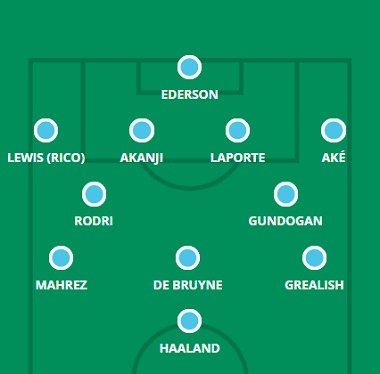
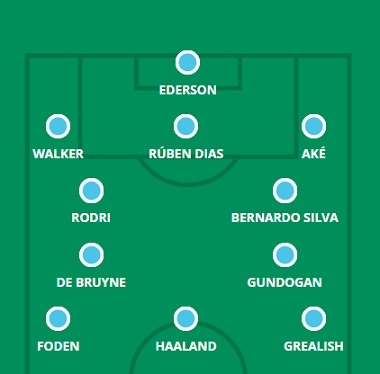
17-20

diff --git a/city.html b/city.html
@@ -63,15 +63,15 @@
     <hgroup>
         <h1> Provável Escalação</h1>
         <h2 class="direita"> por FabioVascão </h2>
-        <h3 class="direita"> Atualizado em 03/Fevereiro/2023 </h3>
+        <h3 class="direita"> Atualizado em 03/Março/2023 </h3>
     </hgroup>
 
     <div class="selecao"><p><b><img src="images/logos/manchester-city.png" width="100rem" height="100rem"/> Manchester City</b></p></div>
        
     <div class="escalacao">
         <div class="topo">
-            <h2 class="titulo">Ultimas Notícias</h2> <h4><p> Pep Guardiola confirmou na sexta-feira que John Stones ficará fora por 3-4 semanas devido à lesão no tendão que contraiu na sexta-feira passada, mas teve melhores notícias sobre Phil Foden (pé), que "treinou muito bem" e deve estar disponível no norte de Londres . A saída de João Cancelo e a lesão de Stones reduzem o número de candidatos a uma vaga na defesa, mas não deixam isso totalmente claro, com Ruben Dias voltando aos poucos à plena forma e logo ameaçando começar no meio-campo. Há também a possibilidade de Kyle Walker ser jogado como lateral-direito para controlar o ritmo de contra-ataque do Spurs, enquanto Rico Lewis foi citado por seu técnico na sexta-feira como sendo uma das opções na esquerda (seja 'invertendo' ou empurrando para cima o flanco) quando Nathan Ake não aparece. Os únicos dois jogadores neste XI previsto que não começaram no confronto reverso na Gameweek 20 foram Aymeric Laporte (que achamos que entra no lugar dos Stones lesionados aqui) e Kevin De Bruyne, com Guardiola optando por mais apoio para Erling Haaland contra um zagueiro na forma de Julian Alvarez - ou talvez tenha sido apenas porque o belga perdeu algum treinamento naquela semana. Se Alvarez for esquecido, talvez isso torne a inclusão de Ilkay Gundogan ainda mais importante, com o alemão indiscutivelmente o melhor meio-campista do City em invadir a área e oferecer um pouco da já mencionada ameaça de gol adicional ao lado de Haaland. Se dois ou três dias de treinamento são suficientes para Foden ser considerado um potencial titular é a grande questão e, de qualquer forma, Guardiola pode simplesmente optar pela dupla mais controlada de Riyad Mahrez e Jack Grealish para impedir que o jogo vire um basquete. partida. Como sempre, a formação que você vê aqui não é um reflexo verdadeiro de como o City se posiciona com a bola - tem sido mais um 3-2-5 com a posse de bola desde a Copa do Mundo e um 4-4-2/4-2- 3-1 fora da bola.</p></h4><br>
-            <h4><strong>Dúvidas:</strong> Stones e Foden.</h4>
+            <h2 class="titulo">Ultimas Notícias</h2> <h4><p> John Stones (coxa), Stefan Ortega (mão) e Aymeric Laporte (doença) voltaram a treinar esta semana, então o City pode ter um atestado de saúde para a visita do Newcastle. Pep Guardiola não deu total liberdade ao trio, apenas dizendo que eles estavam "muito melhores", e não seria uma surpresa ver Stones em particular voltando à ação após seis semanas com uma lesão muscular. Ruben Dias está rapidamente se tornando o esteio da defesa do City após seis partidas consecutivas na liga e na copa, enquanto o ritmo de Kyle Walker provavelmente será uma vantagem contra Allan Saint-Maximin - não que o internacional da Inglaterra tenha tido muito sucesso no confronto reverso. Falando nisso, o City jogou mais um flat back four naquele dia em Tyneside, mas deixou Rodri sobrecarregado na sala de máquinas, então Guardiola pode sentir novamente que inverter Bernardo Silva ou Rico Lewis de lateral-esquerdo não seria apenas o melhor remédio para isso, mas também deu a Walker e Dias alguma proteção adicional contra Rodri para anular Saint-Maximin no contra-ataque. Phil Foden está jogando de volta neste time do City com suas atuações recentes e, embora você nunca saiba o que esperar de Guardiola semana a semana, Erling Haaland provavelmente precisará de algum apoio do que o chefe do City chama seus "corredores" (Foden, Ilkay Gundogan) se o Newcastle replicar suas táticas sufocantes bem-sucedidas dos Emirados em janeiro. Jack Grealish, do outro flanco, está em boa forma em sua carreira no City, e talvez tenha sido revelador que ele teve uma pausa na eliminatória da FA Cup contra o Bristol City no meio da semana, enquanto Foden e Riyad Mahrez estavam em campo. Walker, Gundogan, Haaland e Rodri também descansaram em Ashton Gate, provavelmente com vista ao jogo de sábado na hora do almoço. **NOTA** A formação 3-2-2-3 é nova nestas páginas e pode ser necessário atualizar seu navegador/limpar o cache para vê-la exibida.</p></h4><br>
+            <h4><strong>Dúvidas:</strong> Stones, Laporte e Moreno.</h4>
         </div>
         <aside>
             <figure>

diff --git a/nforest.html b/nforest.html
@@ -63,15 +63,15 @@
     <hgroup>
         <h1> Provável Escalação</h1>
         <h2 class="direita"> por FabioVascão </h2>
-        <h3 class="direita"> Atualizado em 10/Fevereiro/2023 </h3>
+        <h3 class="direita"> Atualizado em 03/Março/2023 </h3>
     </hgroup>
 
     <div class="selecao"><p><b><img src="images/logos/nforest.png" width="100rem" height="100rem"/> N. Forest</b></p></div>
        
     <div class="escalacao">
         <div class="topo">
-            <h2 class="titulo">Ultimas Notícias</h2> <h4><p> Aprendemos até agora a não confiar muito no que Steve Cooper diz nas notícias da equipe, mas na quinta-feira, ele deu a entender que Dean Henderson (coxa), Moussa Niakhate (coxa), Cheikhou Kouyate (coxa), Taiwo Awoniyi (virilha) e Ryan Yates (doença) permaneceria afastado antes do jogo contra o Fulham. Giulian Biancone (ACL) e Omar Richards (perna) também são ausentes de longa data e ficaram de fora dos 25 convocados do Forest para o segundo semestre de 2022/23. O novato Jonjo Shelvey (panturrilha) esteve na grama esta semana e está “perto”, no entanto, então pudemos ver o ex-craque do Newcastle no elenco do Forest pela primeira vez. Cooper manteve as coisas relativamente resolvidas ultimamente após um início de temporada turbulento em termos de entradas e saídas: os recém-chegados Danilo, Chris Wood e Keylor Navas praticamente vieram direto para o lado, enquanto todos os outros no previsto XI bar Scott McKenna e Serge Aurier iniciaram todas as partidas da liga para as quais estiveram disponíveis desde o reinício do Boxing Day. Jack Colback e Sam Surridge foram desviados da hierarquia em meio ao influxo de recém-chegados, mas impressionaram fora do banco no último fim de semana e esperam obter raros começos à frente de duas contratações que não atingiram o solo correndo na forma de Danilo e Wood, com Gustavo Scarpa e Jesse Lingard também alternativos.</p></h4><br>
-            <h4><strong>Dúvidas:</strong> Biancone, Kouyaté, Shelvey, Yates, Henderson, Niakhaté, Awoniyi e Richards (Omar).</h4>
+            <h2 class="titulo">Ultimas Notícias</h2> <h4><p> Willy Boly (coxa), Scott McKenna (coxa), Dean Henderson (coxa), Cheikhou Kouyate (coxa), Taiwo Awoniyi (virilha), Giulian Biancone (ACL) e Omar Richards (perna) permanecem de fora, enquanto Moussa Niakhate (coxa) ) precisará de mais tempo de preparação física antes de ser considerado para um retorno à Premier League. Renan Lodi (virilha) também precisa ser avaliado depois de se afastar no fim de semana passado, enquanto Steve Cooper disse na sexta-feira que "não tinha certeza" se Serge Aurier (panturrilha) seria capaz de retornar contra o Everton. Ryan Yates (doença) deve estar de volta à disputa depois de um recente retorno aos treinos, pelo menos, embora tenhamos dito isso por algumas semanas. Neco Williams e Harry Toffolo são titulares padrão como zagueiros se Aurier e Lodi disputando de fora, enquanto há uma escassez semelhante de opções no meio-campo para garantir que Felipe e Joe Worrall continuem no centro da defesa. Há muito mais opções mais à frente, com Jonjo Shelvey (cuja retirada no fim da semana passada parece ser o catalisador para a derrota no West Ham) e o favorito de Cooper, Remo Freuler, os titulares mais prováveis na sala de máquinas. Jack Colback juntou-se a eles no meio-campo nas duas últimas partidas, mas Danilo, Orel Mangala, Yates (se estiver em forma) e até mesmo o mais ofensivo Gustavo Scarpa são outras opções, enquanto Jesse Lingard (o candidato mais provável para uma convocação), Emmanuel Dennis, Sam Surridge, Andre Ayew e Scarpa são alternativas para Chris Wood no ataque - mas a habilidade aérea do Kiwi pode ser útil para defender lances de bola parada contra os Toffees de Sean Dyche.</p></h4><br>
+            <h4><strong>Dúvidas:</strong> Biancone, Kouyaté, Boly, McKenna, Aurier, Lodi, Yates, Henderson, Niakhaté, Awoniyi e Richards (Omar).</h4>
         </div>
         <aside>
             <figure>

diff --git a/spurs.html b/spurs.html
@@ -63,15 +63,15 @@
     <hgroup>
         <h1> Provável Escalação</h1>
         <h2 class="direita"> por FabioVascão </h2>
-        <h3 class="direita"> Atualizado em 10/Fevereiro/2023 </h3>
+        <h3 class="direita"> Atualizado em 03/Março/2023 </h3>
     </hgroup>
 
     <div class="selecao"><p><b><img src="images/logos/tottenham.png" width="100rem" height="100rem"/> Tottenham</b></p></div>
        
     <div class="escalacao">
         <div class="topo">
-            <h2 class="titulo">Ultimas Notícias</h2> <h4><p> Hugo Lloris vai ficar cinco a sete semanas afastado dos relvados devido a uma lesão num joelho, enquanto Yves Bissouma foi submetido a uma cirurgia ao tornozelo na sexta-feira e enfrenta agora um período de inatividade. Os Spurs também perderam Cristian Romero por suspensão após seu cartão vermelho no fim de semana passado, mas além desse trio, os Lilywhites têm uma equipe totalmente apta para a viagem a Leicester. O time do Spurs permaneceu inalterado nas últimas três partidas do campeonato, com desempenhos melhorando contra Manchester City e Fulham, mas Antonio Conte será forçado a pelo menos duas alterações neste fim de semana com Lloris e Romero fora. Fraser Forster substituirá o primeiro, embora provavelmente seja uma luta direta entre Davinson Sanchez e Clement Lenglet (desculpas a Japhet Tanganga) pela posição vaga de Romero - se Lenglet conseguir o aceno, Eric Dier passará para o centro-direito. meio papel em uma ligeira remodelação. O próximo empate da Liga dos Campeões contra o AC Milan pode estar no fundo da mente de Conte em relação aos minutos administrados, mas com cinco dias para se recuperar entre essa partida e a rodada 24, provavelmente não haverá mudanças no atacado no King Power Stadium. Ryan Sessegnon, Pedro Porro, Richarlison, Arnaut Danjuma e Lucas Moura finalmente oferecem aos Spurs um pouco de força em profundidade, com as posições laterais provavelmente a principal causa de preocupação quando os Lilywhites enfrentam uma semana de três jogos.</p></h4><br>
-            <h4><strong>Dúvidas:</strong> Romero, Bissouma e Lloris.</h4>
+            <h2 class="titulo">Ultimas Notícias</h2> <h4><p> Ryan Sessegnon (coxa), Rodrigo Bentancur (joelho), Hugo Lloris (joelho) e Yves Bissouma (tornozelo) permanecem na lista de lesões de médio a longo prazo, mas Emerson Royal se livrou da pancada que o manteve fora do derrota na copa no meio da semana para o Sheffield United. Não houve muitos / nenhum da segunda linha que impressionou naquela derrota decepcionante em Bramall Lane, com Ivan Perisic, Pedro Porro, Davinson Sanchez e Lucas Moura falhando em reivindicar uma convocação na Premier League - e eles 'provavelmente teria que ter feito algo especial para impressionar a equipe de gestão geograficamente dispersa do Spurs, dadas as boas atuações de seus rivais posicionais contra o Chelsea no último domingo. Portanto, mais uma vez ficamos debatendo qual dos Richarlison ou Son Heung-min consegue o aceno no ataque, com nenhum dos dois fazendo o suficiente ultimamente e novamente falhando em brilhar quando começaram juntos na FA Cup. Richarlison conquistou vitórias sucessivas em casa no campeonato, mas é justo dizer que as vitórias ocorreram apesar da presença do brasileiro, e não devido a isso.</p></h4><br>
+            <h4><strong>Dúvidas:</strong> Bentancur, Sessegnon, Bissouma e Lloris.</h4>
         </div>
         <aside>
             <figure>

diff --git a/palace.html b/palace.html
@@ -63,15 +63,15 @@
     <hgroup>
         <h1> Provável Escalação</h1>
         <h2 class="direita"> por FabioVascão </h2>
-        <h3 class="direita"> Atualizado em 03/Fevereiro/2023 </h3>
+        <h3 class="direita"> Atualizado em 03/Março/2023 </h3>
     </hgroup>
 
     <div class="selecao"><p><b><img src="images/logos/crystal-palace.png" width="100rem" height="100rem"/> Crystal Palace</b></p></div>
        
     <div class="escalacao">
         <div class="topo">
-            <h2 class="titulo">Ultimas Notícias</h2> <h4><p> Patrick Vieira revelou na sexta-feira que Wilfried Zaha ficará de fora por "algumas semanas" devido à lesão no tendão que contraiu na Gameweek 21, enquanto Joachim Andersen (panturrilha) ainda está afastado e Nathan Ferguson e James McArthur não estão em forma. o suficiente. Não é sempre que o Palace fica sem Zaha e geralmente são Odsonne Edouard ou Eberechi Eze que ocuparam o flanco esquerdo no passado, embora ambos os jogadores possam ser destacados em outras áreas. Will Hughes jogou bem no confronto reverso contra o United em Selhurst Park, mas agora ele e Jeffrey Schlupp enfrentam uma nova competição na sala de máquinas, com Naouirou Ahamada e Sambi Lokonga entrando no prazo final. Pode ser que suas chegadas relativamente tardias e a falta de tempo de treinamento com seus novos companheiros de equipe os tenham deixado de lado na 22ª rodada, mas Vieira confirmou que eles estarão pelo menos na equipe neste fim de semana, para que possam ver o tempo de jogo de alguma variedade. Joel Ward fez uma exibição decente contra o Newcastle há quinze dias, mas a meia jarda extra de ritmo de Nathaniel Clyne certamente seria uma vantagem contra Marcus Rashford em forma, então ele poderia ser reintegrado como lateral-direito aqui.</p></h4><br>
-            <h4><strong>Dúvidas:</strong> Ferguson (Nathan), Andersen, Zaha e  McArthur.</h4>
+            <h2 class="titulo">Ultimas Notícias</h2> <h4><p> Sam Johnstone (panturrilha) continua de fora e Nathan Ferguson ainda não está apto para o jogo, mas Wilfried Zaha (coxa) está apto para jogar, após mais de uma semana de treinamento da equipe. Se Zaha será titular ou não, é a próxima questão, já que ele não chuta uma bola competitivamente há seis semanas e seus companheiros de equipe têm sido sólidos, senão espetaculares sem ele. Patrick Vieira também manteve um lado relativamente estável ultimamente, com oito jogadores titulares sempre presentes nas últimas quatro semanas - as exceções são Joachim Andersen (que já se machucou), Jean-Philippe Mateta e Albert Sambi Lokonga. A falha de Mateta pode abrir caminho para Zaha enquanto a busca infrutífera do Palace por gols continua, mas se o técnico dos Eagles desejar ter um atacante ortodoxo no topo, pode ser outro técnico, mas não o favorito dos torcedores, os enxertadores Jeffrey Schlupp ou Jordan Ayew , que tem que abrir caminho para acomodá-lo.</p></h4><br>
+            <h4><strong>Dúvidas:</strong> Ferguson (Nathan) e Johnstone.</h4>
         </div>
         <aside>
             <figure>

diff --git a/fulham.html b/fulham.html
@@ -63,15 +63,15 @@
     <hgroup>
         <h1> Provável Escalação</h1>
         <h2 class="direita"> por FabioVascão </h2>
-        <h3 class="direita"> Atualizado em 10/Feveiro/2023 </h3>
+        <h3 class="direita"> Atualizado em 03/Março/2023 </h3>
     </hgroup>
 
     <div class="selecao"><p><b><img src="images/logos/fulham.png" width="80rem" height="90rem"/> Fulham</b></p></div>
        
     <div class="escalacao">
         <div class="topo">
-            <h2 class="titulo">Ultimas Notícias</h2> <h4><p> Tom Cairney (canela) juntou-se a Neeskens Kebano (Aquiles) nos bastidores da visita ao Nottingham Forest, mas Harrison Reed se livrou de uma pancada no joelho no meio da semana e foi ultrapassado por Marco Silva na sexta-feira. Silva nomeou um XI inicial quase idêntico desde o reinício do Boxing Day, com 10 dos 11 jogadores apresentados neste XI previsto começando todas as partidas para as quais estiveram disponíveis. A única exceção foi no meio-campo, com Tosin Adarabioyo começando as duas partidas da Double Gameweek 19, mas ficando atrás de Issa Diop nos jogos ao redor. O fato de Tosin e Shane Duffy terem começado a eliminatória da FA Cup em Sunderland no meio da semana sugere que Diop novamente mantém seu lugar na liga, principalmente porque ele fez parte da linha de defesa que garantiu uma partida sem sofrer golos na 22ª rodada no Chelsea. Opções de reserva como Harry Wilson, Manor Solomon e Layvin Kurzawa viram o tempo de jogo estendido naquela vitória da copa no nordeste, com nenhum dos regulares de Silva durando mais de 65 minutos - sem dúvida com um olho na visita de Floresta.</p></h4><br>
-            <h4><strong>Dúvidas:</strong> Cairney e Kebano. </h4>
+            <h2 class="titulo">Ultimas Notícias</h2> <h4><p> Layvin Kurzawa (joelho) juntou-se a Tom Cairney (canela) e Neeskens Kebano (Aquiles) nos bastidores, enquanto João Palhinha começa uma suspensão de dois jogos depois de se tornar o primeiro jogador da Premier League a atingir 10 cartões amarelos em 2022/23. No entanto, Aleksandar Mitrovic (tendão da coxa) voltou de lesão na vitória da copa de terça-feira sobre o Leeds United, portanto, deve estar de volta ao XI da Premier League pela primeira vez desde a semana 23. Sasa Lukic provavelmente entrará em um dos times mais estáveis da divisão (10 jogadores começaram todas as partidas para as quais estiveram disponíveis desde o reinício) na ausência de Palhinha, mas, pela primeira vez, há uma dúvida real sobre quem começa pela lateral: Manor Solomon está pressionando para começar depois de marcar em quatro gols consecutivos jogos, mas Marco Silva foi rápido em apontar as contribuições de Bobby DeCordova-Reid e Willian nesta temporada, então ainda não há garantias de que o lateral-esquerdo Solomon consiga uma promoção há muito esperada.</p></h4><br>
+            <h4><strong>Dúvidas:</strong> Cairney, Kurzawa, Palhinha e Kebano. </h4>
         </div>
         <aside>
             <figure>
